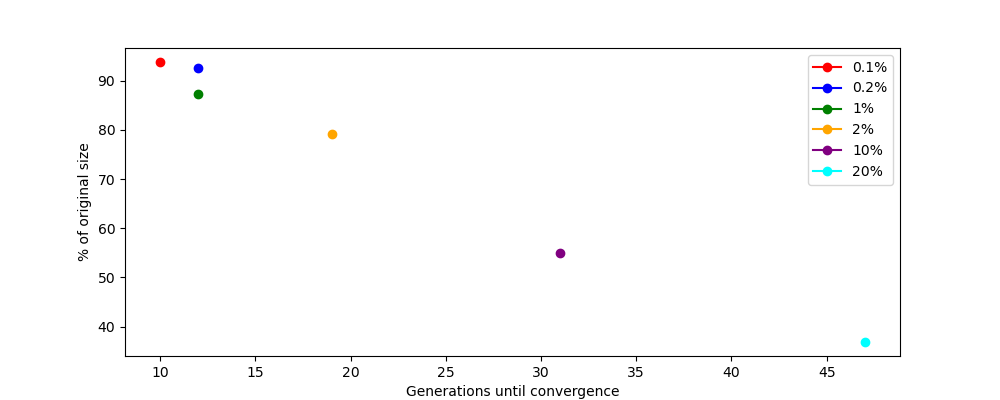
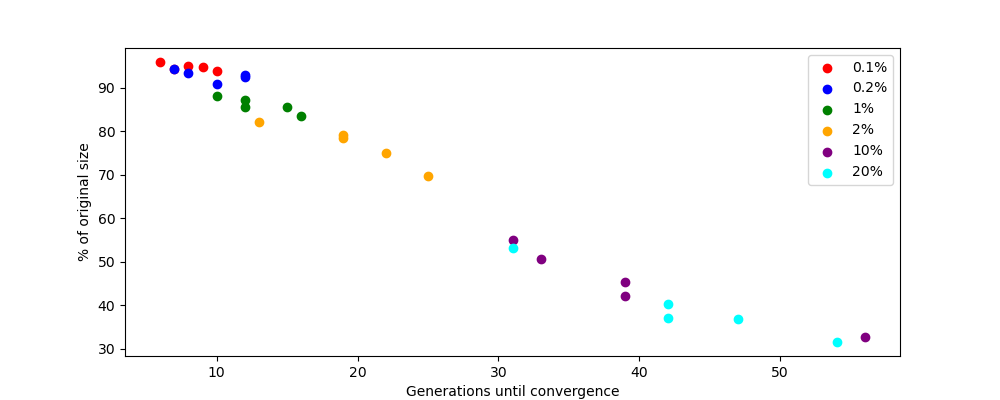
Visualize all measurements in size vs gens

diff --git a/stats.py b/stats.py
@@ -5,16 +5,6 @@ import matplotlib.pyplot as plt
 colors = ["red", "blue", "green", "orange", "purple", "cyan"]
 labels = ["0.1%", "0.2%", "1%", "2%", "10%", "20%"]
 
-fig, ax = plt.subplots(figsize=(10, 4))
-sizes = [93.8, 92.5, 87.2, 79.1, 55.0, 36.88]
-generations = [10, 12, 12, 19, 31, 47]
-ax.set_ylabel("% of original size")
-ax.set_xlabel("Generations until convergence")
-for i in range(len(labels)):
-    ax.plot(generations[i], sizes[i], marker="o", color=colors[i], label=labels[i])
-ax.legend()
-plt.show()
-
 fig, ax = plt.subplots(figsize=(10, 6))
 s01 = [93.8, 94.4, 95.9, 95.0, 94.7]
 s02 = [92.5, 94.4, 93.4, 90.9, 92.8]
@@ -49,5 +39,13 @@ boxprops = dict(linewidth=2, color='black')
 bp = ax.boxplot(generations, labels=labels, boxprops=boxprops, patch_artist=True)
 for patch, color in zip(bp['boxes'], colors):
     patch.set_facecolor(color)
+ax.legend()
+plt.show()
+
+fig, ax = plt.subplots(figsize=(10, 4))
+ax.set_ylabel("% of original size")
+ax.set_xlabel("Generations until convergence")
+for i in range(len(labels)):
+    ax.scatter(generations[i], sizes[i], marker="o", color=colors[i], label=labels[i])
 ax.legend()
 plt.show()
